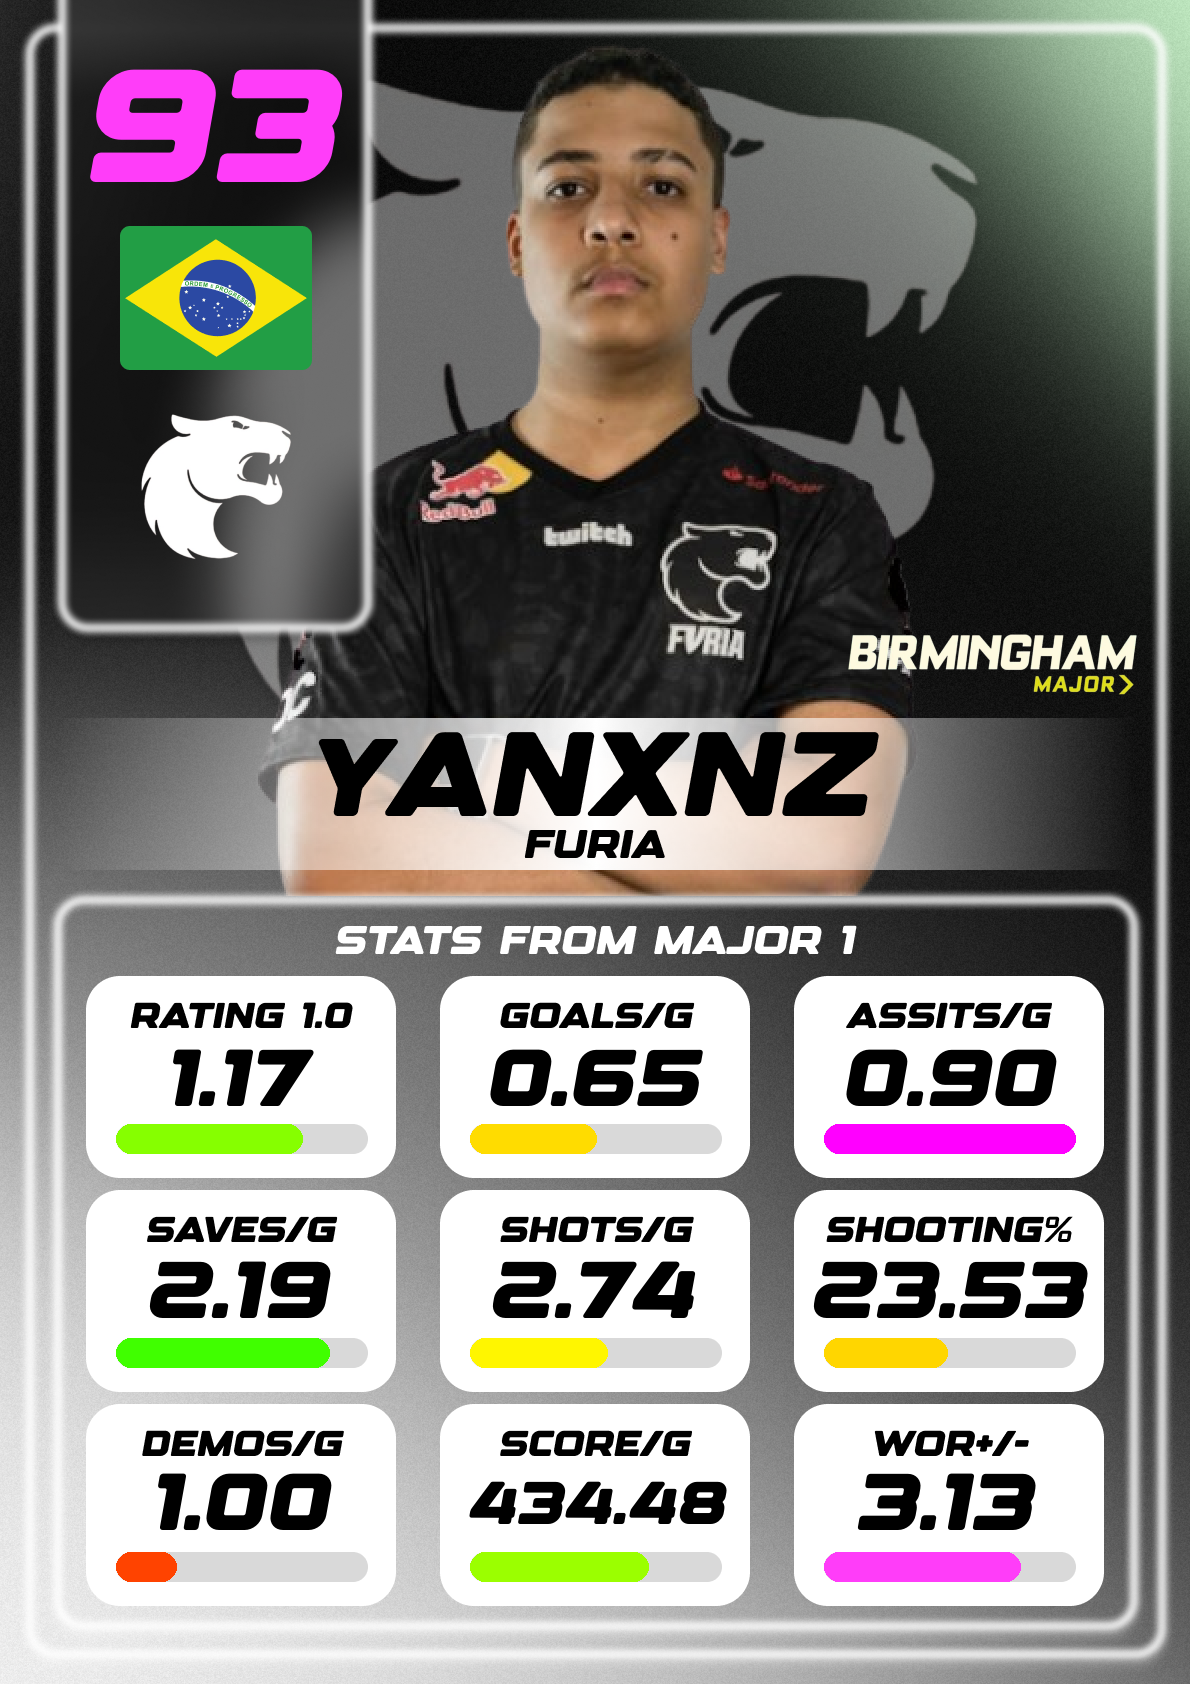
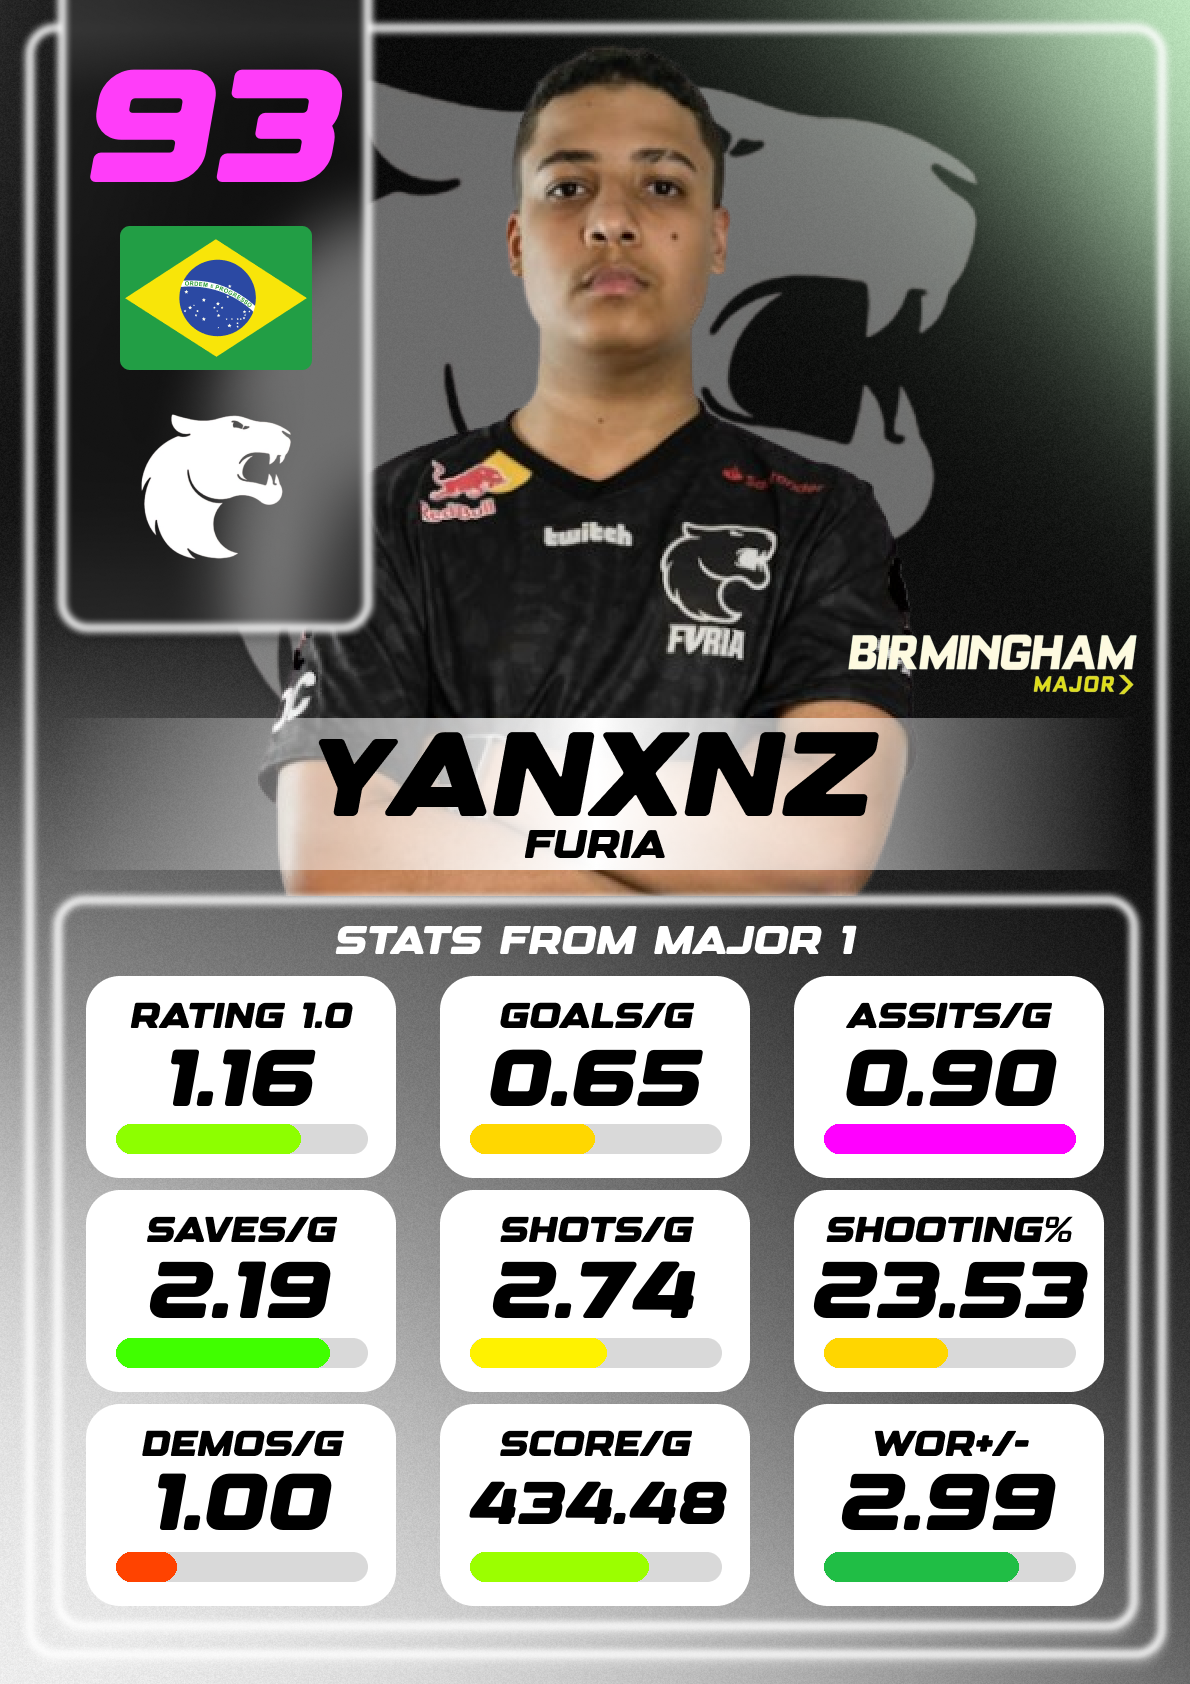
asda

Changed region(s): [[0.684, 0.8646, 0.9017, 0.9572], [0.1866, 0.6176, 0.2798, 0.6793]]

diff --git a/Stats/newrlstats.py b/Stats/newrlstats.py
@@ -57,5 +57,5 @@ def process_file(input_file, output_file):
     with open(output_file, 'w') as wr:
         wr.writelines(lines)
 if True:
-    filename = "Stats/major1.csv"
+    filename = "Stats/major1correct.csv"
     process_file(filename, "Stats/processed-"+filename[6:])
